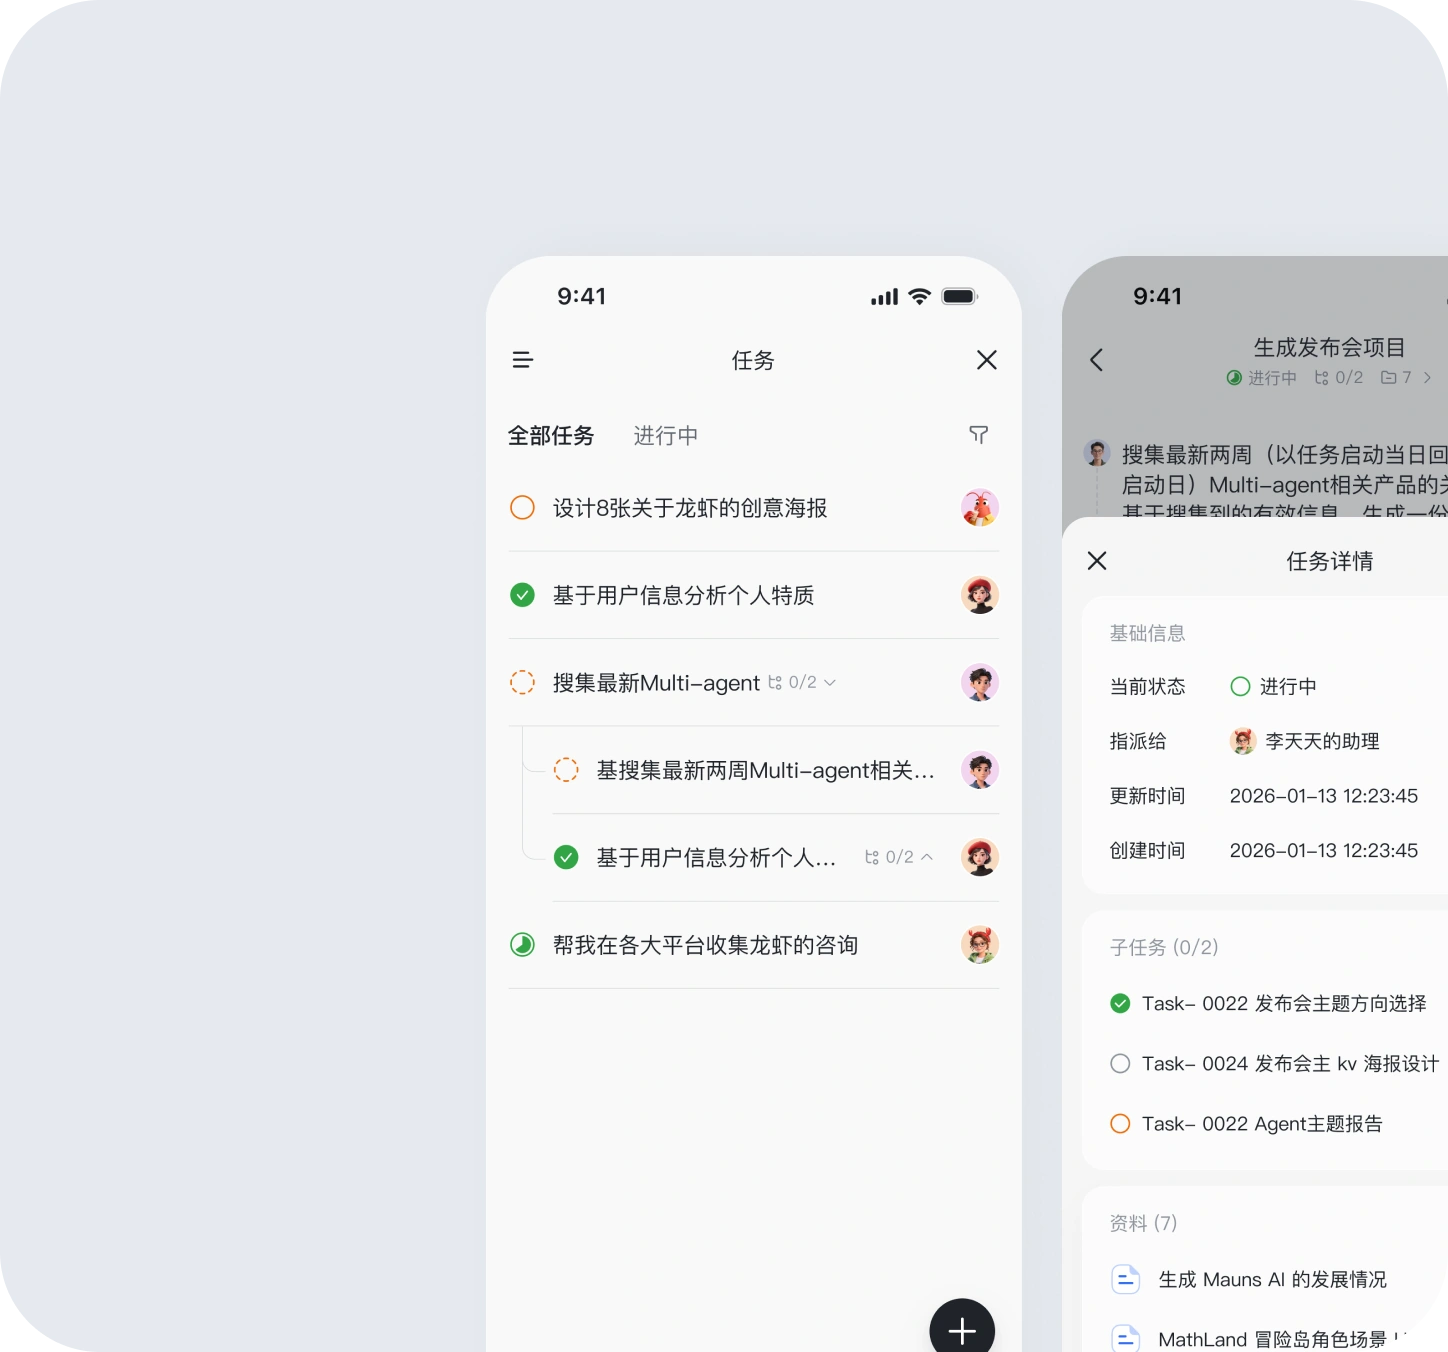
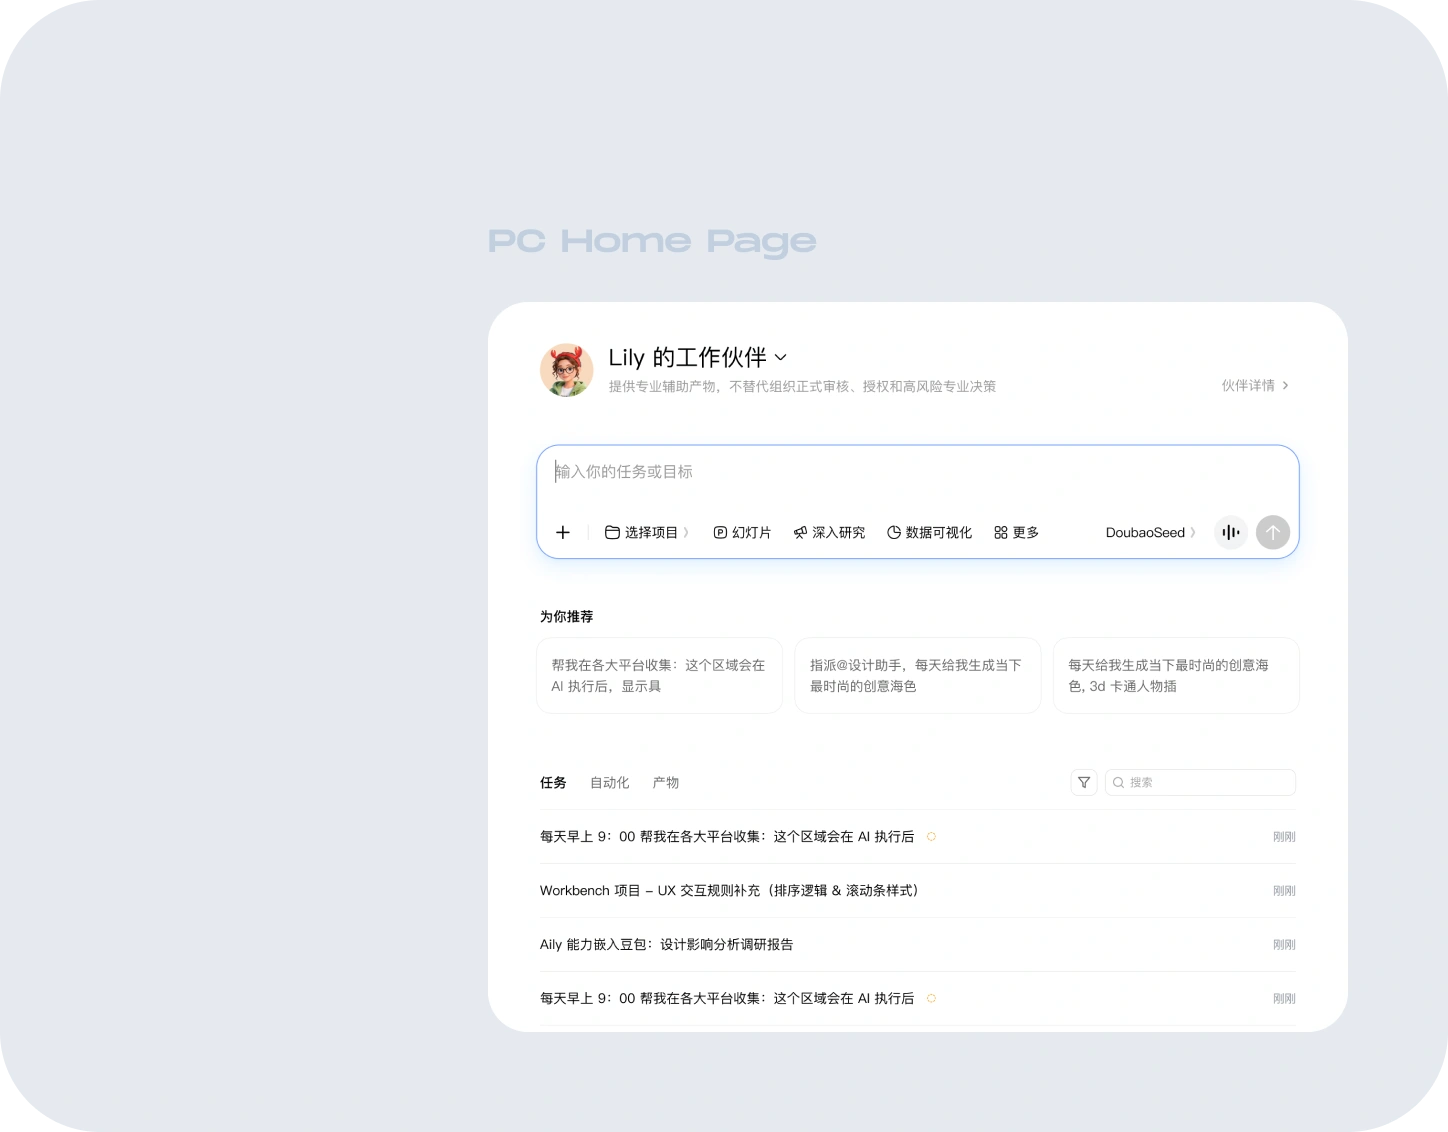
feat(aily): mobile design cards 566 layout with phone outset, MOBILE intro, 80px gap

diff --git a/src/components/AilyRevisedCards.tsx b/src/components/AilyRevisedCards.tsx
@@ -105,13 +105,13 @@ function MobileCopy({ page }: { page: AilyLayout }) {
     return <p key={index}>{text}</p>;
   })}</div>;
 }
-function MobileVisual({ page, top, bottom = 650, alt, active = true, prefetch = false, allCopy = false }: { page: AilyLayout; top: number; bottom?: number; alt: string; active?: boolean; prefetch?: boolean; allCopy?: boolean }) {
+function MobileVisual({ page, top, bottom = 650, alt, active = true, prefetch = false, allCopy = false, artHeight = 676 }: { page: AilyLayout; top: number; bottom?: number; alt: string; active?: boolean; prefetch?: boolean; allCopy?: boolean; artHeight?: number }) {
   if (!page.art) return null;
   const labels = allCopy ? page.texts : page.texts.filter(block => !isMainCopy(block));
   const height = bottom - top;
-  const local = { ...page, texts: labels.map(block => ({ ...block, lines: block.lines.map(line => ({ ...line, y: (line.y - top) * 676 / height })) })) };
+  const local = { ...page, texts: labels.map(block => ({ ...block, lines: block.lines.map(line => ({ ...line, y: (line.y - top) * artHeight / height })) })) };
   return <div className="aily-mobile-visual" style={{ aspectRatio: `724 / ${height}` }}>
-    <DeferredImage active={active} prefetch={prefetch} className="aily-mobile-visual-art" src={asset(ailyArtwork(page.art))} alt={alt} draggable={false} style={{ height: `${676 / height * 100}%`, top: `${-top / height * 100}%` }}/>
+    <DeferredImage active={active} prefetch={prefetch} className="aily-mobile-visual-art" src={asset(ailyArtwork(page.art))} alt={alt} draggable={false} style={{ height: `${artHeight / height * 100}%`, top: `${-top / height * 100}%` }}/>
     {page.page === 11 && <div className="aily-delegation-base-bar" style={{ left: `${50 / 724 * 100}%`, top: `${(552 - top) / height * 100}%`, width: `${614 / 724 * 100}%`, height: `${34 / height * 100}%` }} aria-hidden="true"/>}
     {page.page === 12 && <DeferredImage className="aily-revised-native-shot" active={active} prefetch={prefetch}
       src={asset('media/aily-revised-12-shot.webp')} alt="" draggable={false}
@@ -137,8 +137,8 @@ function MobileCardContent({ page, title }: { page: AilyLayout; title: string })
   }
   // The proactive-work opener keeps its title block above the crop, like the delegation map.
   if (page.page === 12) return <><MobileCopy page={{ ...page, texts: page.texts.filter(block => block.lines[0].x === 50) }}/><MobileVisual page={page} top={150} bottom={676} alt={title}/></>;
-  // The mobile-design pages ship as one finished 724×676 frame, so the whole artwork keeps its original crop.
-  if (page.page >= 13) return <MobileVisual page={page} top={0} bottom={676} alt={title}/>;
+  // The mobile-design pages ship as one finished frame whose card height is 566, so the artwork keeps its own crop.
+  if (page.page >= 13) return <MobileVisual page={page} top={0} bottom={566} artHeight={566} alt={title}/>;
   const visualTop = page.page === 3 ? 224 : page.page === 8 ? 250 : page.page === 9 ? 160 : 180;
   return <><MobileCopy page={page}/><MobileVisual page={page} top={visualTop} bottom={page.page === 7 ? 665 : 650} alt={title}/></>;
 }
@@ -235,15 +235,16 @@ function AutomationCases() {
 export default function AilyRevisedCards() {
   const { mobile } = useViewport();
   return <>{visibleCards.map(({ page, node, title }, index) => <section key={page.page}
-    className={`miaoda-project-hero aily-revised-card${page.page === 5 || page.page === 6 ? ' miaoda-core-design' : ''}`}
+    className={`miaoda-project-hero aily-revised-card${page.page === 5 || page.page === 6 ? ' miaoda-core-design' : ''}${page.page === 13 ? ' is-phone-outset' : ''}${page.page >= 13 ? ' is-card-566' : ''}`}
     data-figma-node={node} data-aily-page={index + 3} aria-label={`第${index + 3}页：${page.page === 6 ? '自动化任务委派' : title}`}>
     {page.page === 5 ? <AilyFrameworkCases/> : page.page === 6 ? <AutomationCases/> : mobile ? <MobileCardContent page={page} title={title}/> : <>
-      {page.art && <DeferredImage className="aily-revised-art" src={asset(ailyArtwork(page.art))} alt={page.page >= 13 ? (page.page === 13 ? '移动端任务列表与任务详情界面' : '移动端团队成员与伙伴能力界面') : page.page === 3 ? '三种伙伴档案与配置界面' : page.page === 11 ? 'Aily 中的三种委派：发起一次任务、自动化任务、主动工作，委托深度从目标到规则再到边界递增' : page.page === 12 ? '主动工作的落地场景：个人助手主动卡与每日前瞻、团队助手到点提醒，以及条件成立时带着依据出现' : page.page >= 7 && page.page < 8 ? title : page.page === 8 ? '收件箱事件示例与分类关系' : '收件箱改版前后界面与接收设置'} loading="lazy" decoding="async" draggable={false}/>}
+      {page.art && <DeferredImage className="aily-revised-art" src={asset(ailyArtwork(page.art))} alt={page.page >= 13 ? (page.page === 13 ? '移动端设计：PC 首页的任务与目标，在手机上继续推进' : '移动端设计：团队成员关系与伙伴能力界面') : page.page === 3 ? '三种伙伴档案与配置界面' : page.page === 11 ? 'Aily 中的三种委派：发起一次任务、自动化任务、主动工作，委托深度从目标到规则再到边界递增' : page.page === 12 ? '主动工作的落地场景：个人助手主动卡与每日前瞻、团队助手到点提醒，以及条件成立时带着依据出现' : page.page >= 7 && page.page < 8 ? title : page.page === 8 ? '收件箱事件示例与分类关系' : '收件箱改版前后界面与接收设置'} loading="lazy" decoding="async" draggable={false}/>}
       {page.page === 11 && <div className="aily-delegation-base-bar" style={at(50, 552, 614, 34)} aria-hidden="true"/>}
       {page.page === 12 && <DeferredImage className="aily-revised-native-shot" src={asset('media/aily-revised-12-shot.webp')} alt="" loading="lazy" decoding="async" draggable={false} style={at(50, 193, 635, 483)}/>}
       {page.page === 4 && [182, 242, 310, 378].map((width, i) => <div key={i} className="aily-revised-strategy-pill" style={at(50, 189 + i * 88, width, 68)} aria-hidden="true"/>)}
       <NativeCopy page={page}/>
       <AilyTooltips art={page.art}/>
     </>}
+    {page.page === 13 && <DeferredImage className="aily-mobile-phone" src={asset('media/aily-mobile-phone.webp')} alt="" loading="lazy" decoding="async" draggable={false}/>}
   </section>)}</>;
 }

diff --git a/src/components/SiteHeader.tsx b/src/components/SiteHeader.tsx
@@ -32,12 +32,12 @@ export default function SiteHeader(){
     const r=card.getBoundingClientRect(),b=cards[best].getBoundingClientRect();
     return Math.abs(r.top+r.height/2-middle)<Math.abs(b.top+b.height/2-middle)?i:best;
    },0);
-   setMiaodaSection(aily?(nearest>=15?5:nearest>=14?4:nearest>=7?3:nearest>=2?2:0):beauty?Math.min(6,nearest):nearest >= 9 ? 8 : nearest === 8 ? 7 : nearest === 7 ? 6 : nearest === 6 ? 5 : nearest === 5 ? 4 : nearest === 4 ? 3 : Math.min(2,nearest));
+   setMiaodaSection(aily?(nearest>=14?5:nearest>=12?6:nearest>=7?3:nearest>=2?2:0):beauty?Math.min(6,nearest):nearest >= 9 ? 8 : nearest === 8 ? 7 : nearest === 7 ? 6 : nearest === 6 ? 5 : nearest === 5 ? 4 : nearest === 4 ? 3 : Math.min(2,nearest));
   };
   const frame=window.requestAnimationFrame(update);
   const snapUpdate=(event:Event)=>{
    const detail=(event as CustomEvent<{pageKey:string;index:number}>).detail;
-   if(aily&&detail?.pageKey==='aily')setMiaodaSection(detail.index>=15?5:detail.index>=14?4:detail.index>=7?3:detail.index>=2?2:0);
+   if(aily&&detail?.pageKey==='aily')setMiaodaSection(detail.index>=14?5:detail.index>=12?6:detail.index>=7?3:detail.index>=2?2:0);
    else update();
   };
   window.addEventListener('scroll',update,{passive:true});
@@ -52,7 +52,10 @@ export default function SiteHeader(){
  return <><header className={`site-header ${about?'header-about':''} ${detail?'header-detail':''} ${directProject?'header-miaoda':''} ${beauty?'header-beauty':''} ${feishuCard?'header-feishu-card':''}`}>
   <motion.div className="identity" initial={false} animate={{y:introDone?0:mobile?'36dvh':'8rem',scale:introDone?1:.72}} transition={{duration:1.08,ease:motionSettings.ease}}>
    <AnimatePresence mode="wait"><motion.div key={directProject?(beauty?`beauty-${miaodaSection===0?'intro':'details'}`:`${aily?'aily':feishuCard?'feishu-card':'miaoda'}-${miaodaSection}`):project?.id||'identity'} initial={{opacity:0,y:20}} animate={{opacity:1,y:0}} exit={{opacity:0,y:-20}} transition={{duration:.5,ease:motionSettings.ease}}>
-    {feishuCard?<div className="feishu-card-header-intro"><div className="feishu-card-header-title"><DeferredImage src={asset('media/feishu-card-logo-v2.png')} alt=""/><h1>飞书卡片</h1></div><span>CREADIT CARD</span><p>飞书卡片是一个覆盖从卡片生成到消费完整链路的产品体系，既关注卡片如何被创建，也关注它如何被触达、展示和使用。</p><time>2022 - 2023</time></div>:aily?(miaodaSection===5?<div className="aily-core-intro aily-revised-intro"><h1>设计与反思</h1><span>HUMAN IN THE LOOP</span></div>:miaodaSection===4?<div className="aily-core-intro aily-revised-intro">
+    {feishuCard?<div className="feishu-card-header-intro"><div className="feishu-card-header-title"><DeferredImage src={asset('media/feishu-card-logo-v2.png')} alt=""/><h1>飞书卡片</h1></div><span>CREADIT CARD</span><p>飞书卡片是一个覆盖从卡片生成到消费完整链路的产品体系，既关注卡片如何被创建，也关注它如何被触达、展示和使用。</p><time>2022 - 2023</time></div>:aily?(miaodaSection===6?<div className="aily-core-intro aily-revised-intro">
+      <h1>移动端设计</h1>
+      <span>MOBILE</span>
+    </div>:miaodaSection===5?<div className="aily-core-intro aily-revised-intro"><h1>设计与反思</h1><span>HUMAN IN THE LOOP</span></div>:miaodaSection===4?<div className="aily-core-intro aily-revised-intro">
       <h1>核心设计 - <strong>03</strong></h1>
       <span>HUMAN IN THE LOOP</span>
       <h2>持续运行 但不持续打扰</h2>

diff --git a/src/components/AilyRevisedCards.css b/src/components/AilyRevisedCards.css
@@ -110,3 +110,13 @@
  .header-miaoda .identity .aily-core-intro.aily-revised-intro{width:100%}
  .aily-core-intro.aily-revised-intro>span{font-size:12px;margin-bottom:16px}
 }
+
+/* 移动端设计两页（任务 1989-39051 / 团队 4121-51669）：Figma 里卡片已调成 724×566。
+   任务页的手机白壳是卡片外的独立图层（333×680，相对卡片 -136/-57）；导出件 826×1520 四周各带 40px 阴影留白，
+   因此按导出整图定位：left -176/724、top -97/566、width 413/724。卡片自身不再裁切，圆角由 art 承担。 */
+.miaoda-project-hero.aily-revised-card.is-card-566{aspect-ratio:724/566;margin-top:80px}
+.miaoda-project-hero.aily-revised-card.is-card-566[data-aily-page="16"]{margin-bottom:80px}
+.miaoda-project-hero.aily-revised-card.is-phone-outset{overflow:visible;clip-path:none;contain:none}
+.aily-revised-card.is-phone-outset>.aily-revised-art{border-radius:var(--miaoda-hero-radius);clip-path:inset(0 round var(--miaoda-hero-radius))}
+.aily-revised-card.is-phone-outset>.aily-mobile-phone{position:absolute;left:-24.31%;top:-17.14%;width:57.04%;height:auto;z-index:2;pointer-events:none;user-select:none;-webkit-user-select:none}
+@media(max-width:768px){.aily-revised-card.is-card-566{aspect-ratio:auto;margin-block:0}.aily-revised-card.is-phone-outset>.aily-mobile-phone{display:none}}
